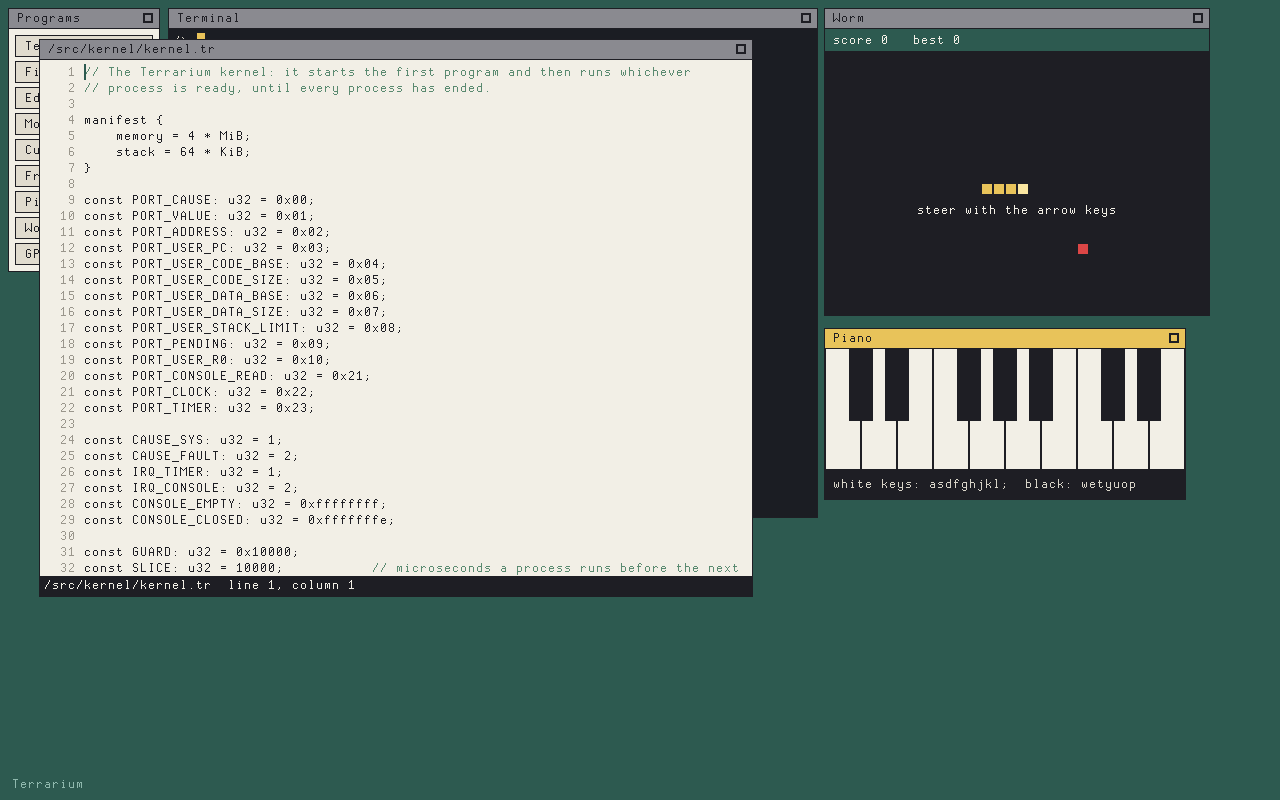
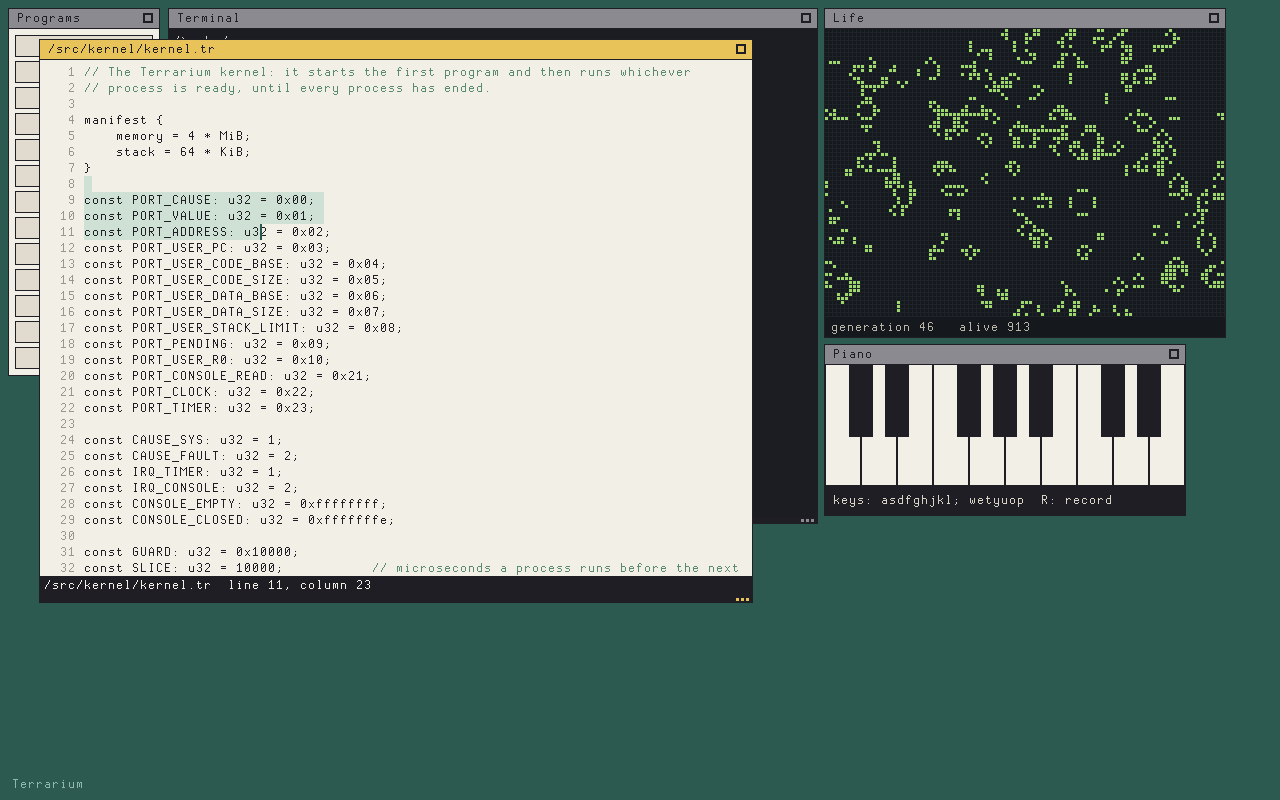
Retake the screenshots

diff --git a/README.md b/README.md
@@ -45,7 +45,7 @@ It needs a C11 compiler and SDL3.
 - **Text is UTF-8** everywhere. Terra, the system font, is drawn as text in
   `system/fonts/terra.txt` and covers ASCII and Latin-1.
 
-![The editor, a game, a piano and the launcher](docs/images/apps.png)
+![The editor with a selection, Life, the piano and the launcher](docs/images/apps.png)
 
 ## Inside Terrarium
 
